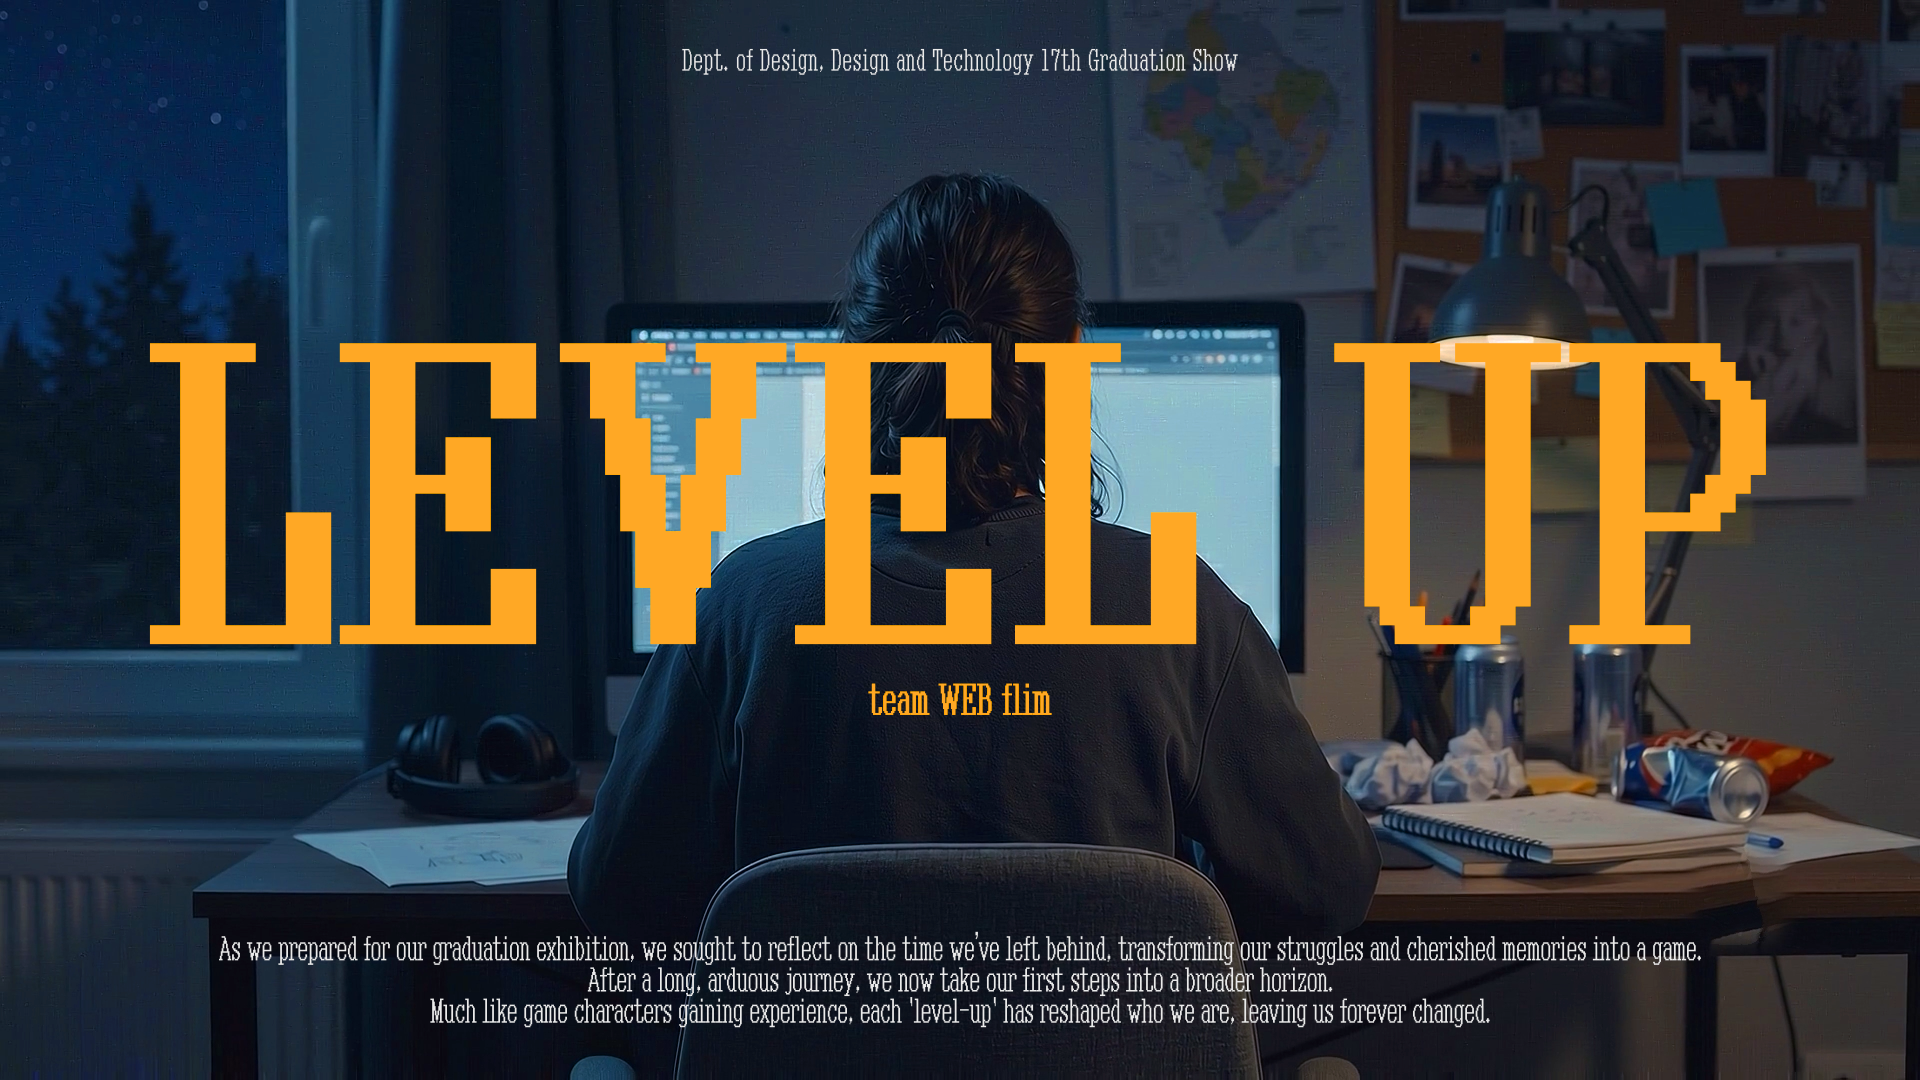
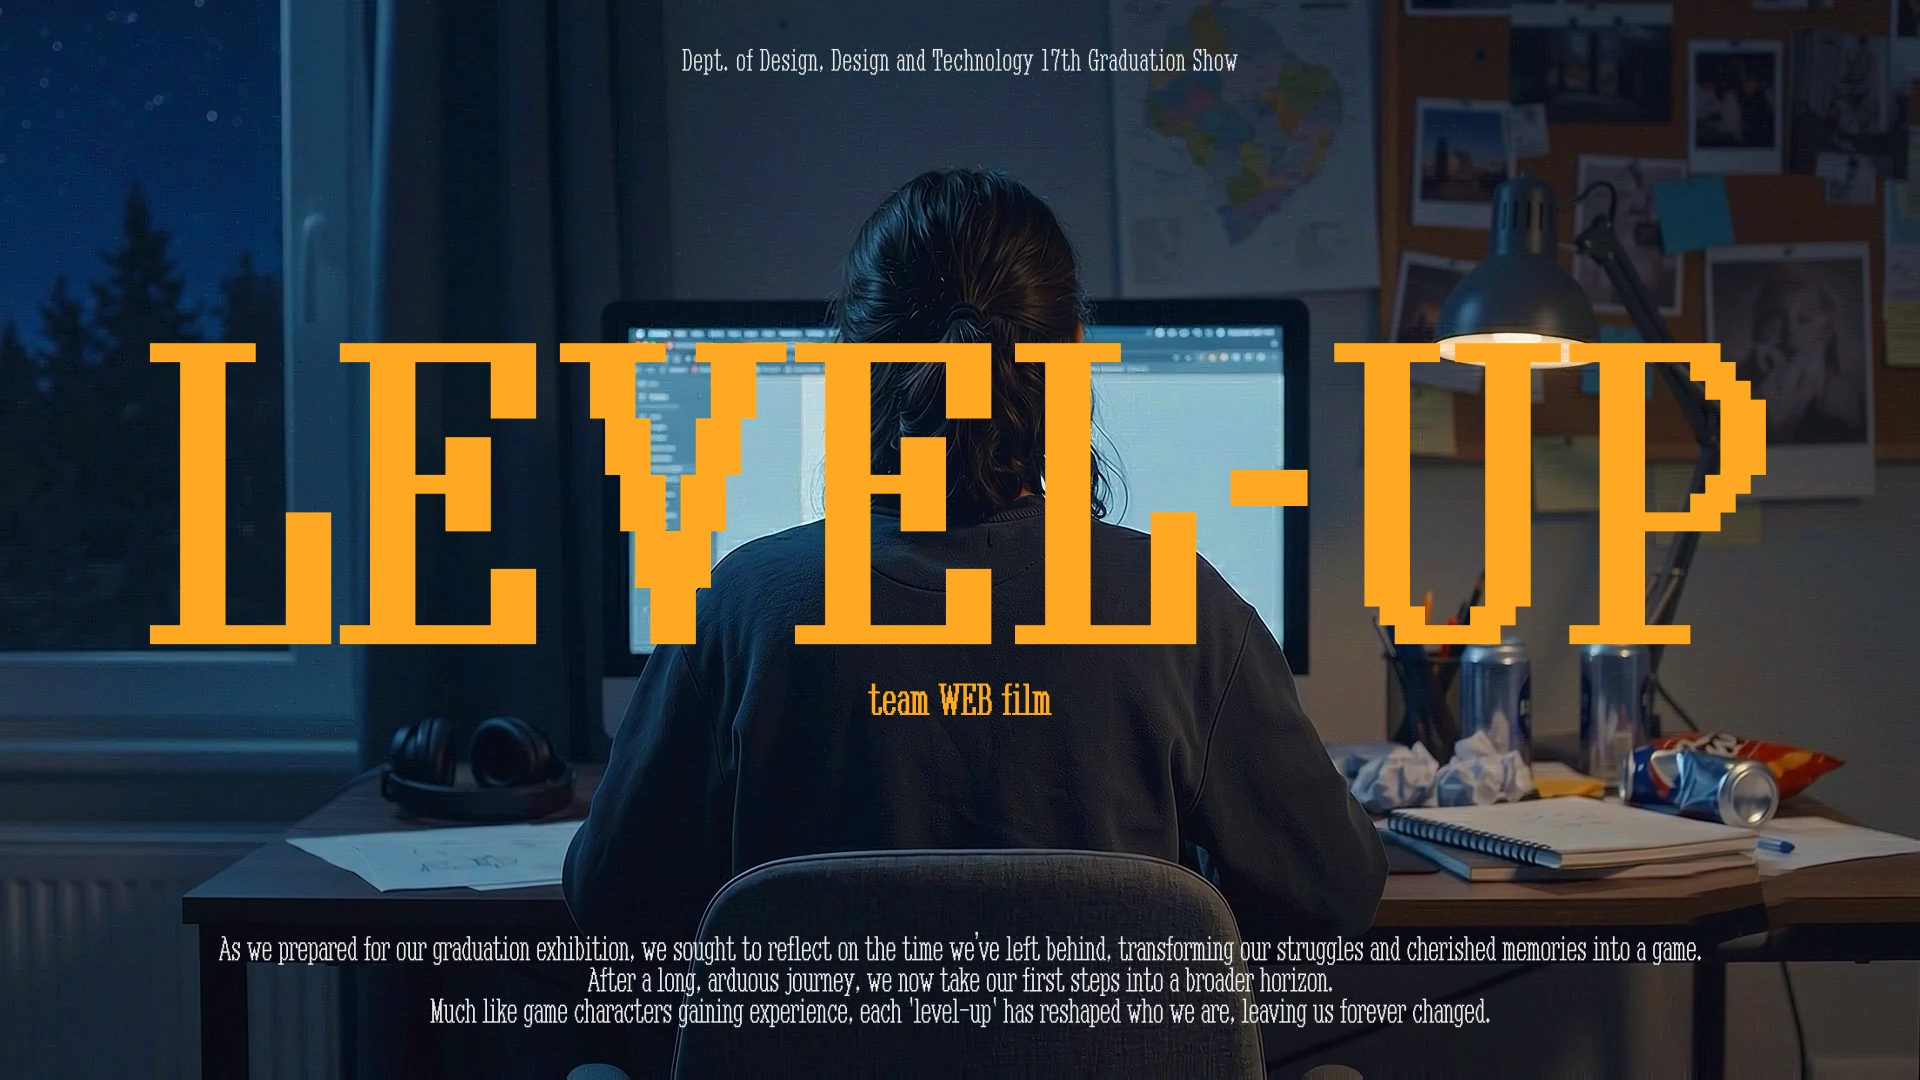
정보 수정

diff --git a/src/components/Footer.tsx b/src/components/Footer.tsx
@@ -1,10 +1,6 @@
 import { Link } from "react-router-dom";
 
 const Footer = () => {
-  const handleLogoClick = () => {
-    window.scrollTo({ top: 0, behavior: "smooth" });
-  };
-
   return (
     <div className="relative z-10 w-full shadow-[0_-8px_30px_rgba(53,73,98,0.18)]">
       <footer className="relative w-full overflow-hidden text-[#fff]">
@@ -13,7 +9,7 @@ const Footer = () => {
           <img src="/images/footer_background.webp" alt="" loading="lazy" decoding="async" className="absolute inset-0 h-full w-full object-cover object-center" />
 
           <div className="absolute inset-x-[9.4%] inset-y-[15%] z-10 xl:inset-y-[17%]">
-            <Link to="/" onClick={handleLogoClick} aria-label="홈으로 이동" className="absolute left-0 top-0 w-[12.3%]">
+            <Link to="/" aria-label="홈으로 이동" className="absolute left-0 top-0 w-[12.3%]">
               <img src="/images/footer_logo.webp" alt="잔향" className="h-auto w-full object-contain" />
             </Link>
 
@@ -55,7 +51,7 @@ const Footer = () => {
 
           <div className="relative z-10 flex flex-col">
             <div className="flex items-start justify-between">
-              <Link to="/" onClick={handleLogoClick} aria-label="홈으로 이동">
+              <Link to="/" aria-label="홈으로 이동">
                 <img src="/images/footer_logo.webp" alt="잔향" className="w-[120px] object-contain" />
               </Link>
 

diff --git a/src/pages/designerdetail.tsx b/src/pages/designerdetail.tsx
@@ -105,7 +105,7 @@ const DesignerDetail = () => {
     : undefined;
 
   return (
-    <main className="bg-[url('/images/background.webp')] text-[#111] max-lg:bg-[length:400%_auto] max-lg:bg-top max-lg:bg-repeat-y">
+    <main className="min-h-screen bg-[url('/images/background.webp')] bg-[length:400%_auto] bg-top bg-repeat-y text-[#111] lg:bg-cover lg:bg-center lg:bg-no-repeat">
       <div className="relative mx-auto flex min-h-[calc(100svh-72px)] max-w-[2100px] flex-col px-6 pb-12 pt-[39px] sm:px-10 lg:min-h-[calc(100svh-var(--header-height))] lg:px-[clamp(40px,2.5vw,52px)] lg:pb-12 lg:pt-6 xl:max-w-none xl:px-0 xl:pb-[clamp(48px,6svh,72px)] xl:pt-[clamp(28px,3.5svh,40px)]">
         <div className="grid min-h-0 flex-1 items-start gap-y-0 lg:grid-cols-[minmax(0,1.45fr)_minmax(0,1.25fr)] lg:gap-x-[clamp(28px,2.5vw,36px)] lg:gap-y-10 xl:mx-auto xl:w-[calc(100%_-_104px)] xl:max-w-[1962px] xl:grid-cols-[minmax(0,1.45fr)_clamp(28px,2.5vw,36px)_minmax(0,1.25fr)_clamp(62px,3.2vw,73px)_clamp(378px,27.3vw,567px)] xl:items-stretch xl:gap-0">
           <div className="flex w-full flex-col justify-end xl:col-start-1 xl:min-h-0 xl:justify-start">

diff --git a/src/components/ScrollToTop.tsx b/src/components/ScrollToTop.tsx
@@ -1,0 +1,32 @@
+import { useEffect, useLayoutEffect } from "react";
+import { useLocation } from "react-router-dom";
+
+const isProjectSectionLink = (pathname: string, hash: string) => {
+  if (hash === "#individual-interaction") {
+    return /^\/project\/[^/]+$/.test(pathname);
+  }
+
+  return /^\/project\/team\/[^/]+$/.test(pathname) &&
+    (hash === "#team-film" || hash === "#team-interaction");
+};
+
+export default function ScrollToTop() {
+  const location = useLocation();
+
+  useEffect(() => {
+    const previousRestoration = window.history.scrollRestoration;
+    window.history.scrollRestoration = "manual";
+
+    return () => {
+      window.history.scrollRestoration = previousRestoration;
+    };
+  }, []);
+
+  useLayoutEffect(() => {
+    if (!isProjectSectionLink(location.pathname, location.hash)) {
+      window.scrollTo(0, 0);
+    }
+  }, [location.key, location.pathname, location.hash]);
+
+  return null;
+}

diff --git a/src/pages/teamprojectdetail.tsx b/src/pages/teamprojectdetail.tsx
@@ -56,7 +56,9 @@ const TeamProjectDetail = () => {
 
   useLayoutEffect(() => {
     window.scrollTo(0, 0);
-    const targetId = location.hash.slice(1);
+    const targetId = ["#team-film", "#team-interaction"].includes(location.hash)
+      ? location.hash.slice(1)
+      : "";
 
     if (targetId) {
       const resolvedId = window.innerWidth < 768 && ["team-film", "team-interaction"].includes(targetId)
@@ -67,7 +69,7 @@ const TeamProjectDetail = () => {
       scrollContainerRef.current?.scrollTo(0, 0);
       mobileGalleryRef.current?.scrollTo(0, 0);
     }
-  }, [categoryParam, location.hash]);
+  }, [categoryParam, location.key, location.hash]);
 
   useEffect(() => {
     const container = scrollContainerRef.current;

diff --git a/src/pages/projectdetail.tsx b/src/pages/projectdetail.tsx
@@ -171,7 +171,7 @@ const ProjectDetail = () => {
 
   useLayoutEffect(() => {
     window.scrollTo(0, 0);
-    const targetId = location.hash.slice(1);
+    const targetId = location.hash === "#individual-interaction" ? "individual-interaction" : "";
 
     if (targetId) {
       // 모바일에서는 아래 모바일 전용 인터랙션 섹션으로 이동합니다.
@@ -183,7 +183,7 @@ const ProjectDetail = () => {
       scrollContainerRef.current?.scrollTo(0, 0);
       mobileGalleryRef.current?.scrollTo(0, 0);
     }
-  }, [designerId, location.hash]);
+  }, [designerId, location.key, location.hash]);
 
   useEffect(() => {
     const container = scrollContainerRef.current;

diff --git a/src/pages/project.tsx b/src/pages/project.tsx
@@ -167,7 +167,7 @@ const Project = () => {
   };
 
   return (
-    <main className="min-h-screen bg-[url('/images/background.webp')] bg-[length:400%_auto] bg-top bg-repeat-y text-[#121212] lg:bg-cover lg:bg-center lg:bg-fixed lg:bg-no-repeat lg:pt-[var(--header-height)]">
+    <main className="min-h-screen bg-[url('/images/background.webp')] bg-[length:400%_auto] bg-top bg-repeat-y text-[#121212] lg:bg-cover lg:bg-center lg:bg-no-repeat lg:pt-[var(--header-height)]">
       <section
         ref={projectLabelRef}
         data-project-label

diff --git a/src/pages/designer.tsx b/src/pages/designer.tsx
@@ -26,13 +26,7 @@ const Designer = () => {
   );
 
   return (
-    <main
-      className="min-h-screen max-lg:bg-[length:400%_auto] max-lg:bg-top max-lg:bg-repeat-y"
-      style={{
-        backgroundImage:
-          "url('/images/background.webp')",
-      }}
-    >
+    <main className="min-h-screen bg-[url('/images/background.webp')] bg-[length:400%_auto] bg-top bg-repeat-y lg:bg-cover lg:bg-center lg:bg-no-repeat">
       <img
         src="/images/label-designer.webp"
         alt="label"

diff --git a/src/App.tsx b/src/App.tsx
@@ -10,6 +10,7 @@ import TeamProjectDetail from './pages/teamprojectdetail'
 import Behind from './pages/behind'
 import Guestbook from './pages/guestbook'
 import Header from './components/header'
+import ScrollToTop from './components/ScrollToTop'
 
 function App() {
   const [guestbookObjectLogoClicks, setGuestbookObjectLogoClicks] = useState(0)
@@ -19,6 +20,7 @@ function App() {
 
     <BrowserRouter>
       <Header />
+      <ScrollToTop />
 
       <Routes>
 

diff --git a/src/pages/guestbook.tsx b/src/pages/guestbook.tsx
@@ -686,7 +686,7 @@ export default function Guestbook({
 
   return (
   <main
-    className="min-h-screen bg-repeat-y bg-top text-neutral-900"
+    className="min-h-screen bg-[url('/images/background.webp')] bg-[length:400%_auto] bg-top bg-repeat-y text-neutral-900 lg:bg-cover lg:bg-center lg:bg-no-repeat"
   >
     {/* <div className="text-2xl font-semibold text-center py-4">
       감사합니다!
